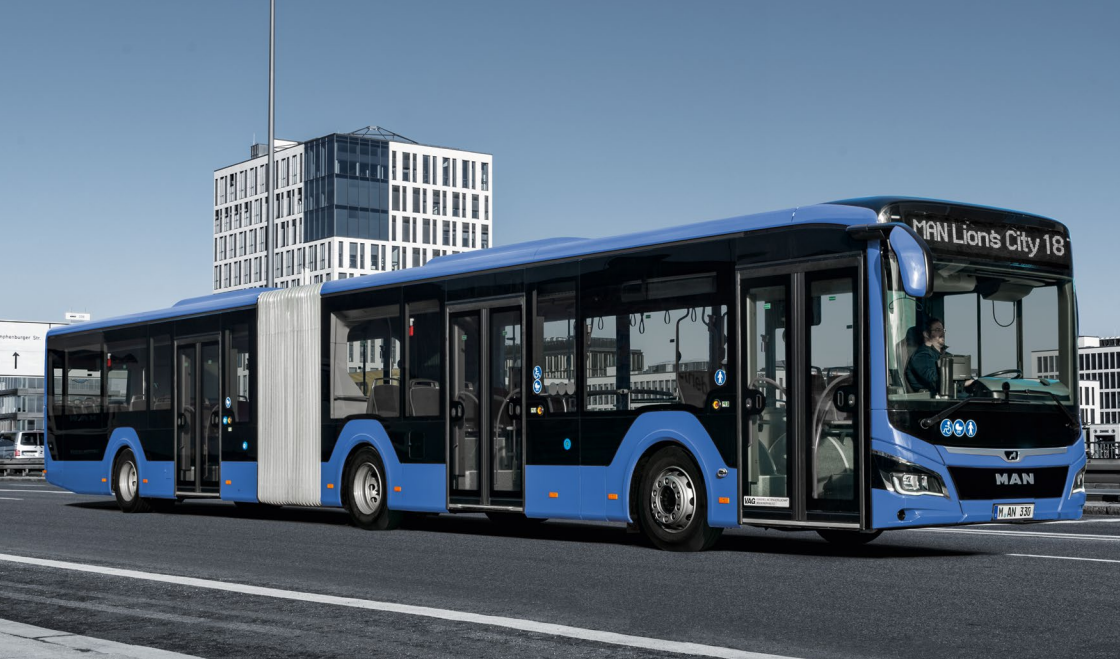
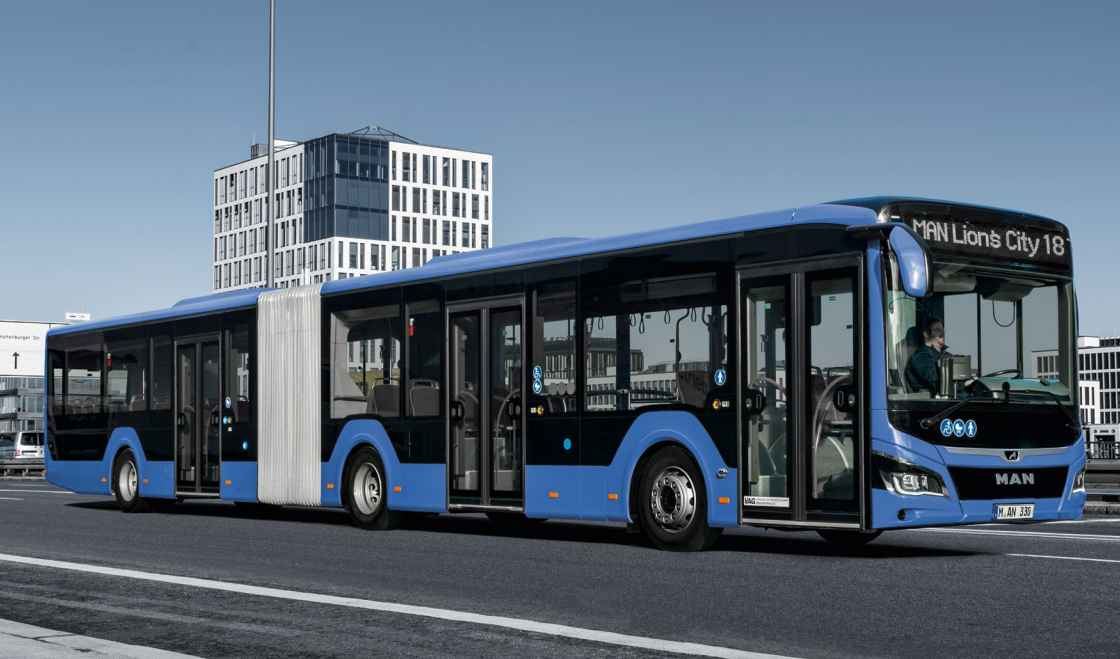
compressed images, improved lighthouse score and added animations

diff --git a/index.html b/index.html
@@ -31,17 +31,17 @@
                     <article>
                         <h2 id="categ">ELECTRIC</h2>
                         <div>
-                        <img id="abc" src="10E.webp" alt="zdjecie modelu 10E">
+                        <img id="zdjmod" src="10E.webp" alt="zdjecie modelu 10E">
                         <img src="10E.webp" class="shadow" aria-hidden="true">
                         <p>Lion's City 10E</p>
                         </div>
                         <div>
-                        <img src="12E.webp" id="abc" alt="zdjecie modelu 12E">
+                        <img src="12E.webp" id="zdjmod" alt="zdjecie modelu 12E">
                         <img src="12E.webp" class="shadow" aria-hidden="true">
                         <p>Lion's City 12E</p>
                         </div>
                         <div>
-                        <img src="18E.webp" id="abc" alt="zdjecie modelu 18E">
+                        <img src="18E.webp" id="zdjmod" alt="zdjecie modelu 18E">
                         <img src="18E.webp" class="shadow" aria-hidden="true">
                         <p>Lion's City 18E</p>
                         </div>
@@ -49,17 +49,17 @@
                     <article>
                         <h2 id="categ">EFFICIENT HYBRID</h2>
                         <div>
-                        <img src="12.webp" id="abc" alt="zdjecie modelu 12">
+                        <img src="12.webp" id="zdjmod" alt="zdjecie modelu 12">
                         <img src="12.webp" class="shadow" aria-hidden="true">
                         <p>Lion's City 12</p>
                         </div>
                         <div>
-                        <img src="18.webp" id="abc" alt="zdjecie modelu 18">
+                        <img src="18.webp" id="zdjmod" alt="zdjecie modelu 18">
                         <img src="18.webp" class="shadow" aria-hidden="true">
                         <p>Lion's City 18</p>
                         </div>
                         <div>
-                        <img src="19.webp" id="abc" alt="zdjecie modelu 19">
+                        <img src="19.webp" id="zdjmod" alt="zdjecie modelu 19">
                         <img src="19.webp" class="shadow" aria-hidden="true">
                         <p>Lion's City 19</p>
                         </div>
@@ -145,8 +145,10 @@
                 <h1>KONTAKT</h1>
                 <article>
                     <form>
+                        <div>
                         <input type="text" id="imie" name="nazwisko" placeholder="imię">
                         <input type="text" id="nazwisko" name="nazwisko" placeholder="nazwisko">
+                    </div>
                         <input type="text" id="email" name="email" placeholder="e-mail">
                         <input type="text" id="tytul" name="tytul" placeholder="tytuł wiadomości">
                         <textarea id="tresc" name="tresc" placeholder="treść"></textarea>
@@ -155,7 +157,7 @@
                 </article>
             </section>
             <footer>
-                <p>DAWID LESZ 2023 &copy</p>
+                <p>DESPISE 2023 &copy</p>
             </footer>
         </main>
         

diff --git a/style.css b/style.css
@@ -28,6 +28,7 @@ nav{
 
 #logo img{
     width: 100px;
+    height: 60px;
 }
 
 #logo{
@@ -80,11 +81,17 @@ section{
     min-height: 100vh;
 }
 
+hr{
+    flex-basis: 100%;
+    height: 2px;
+    background-color: #EEEEEE;
+}
+
 section h1{
     flex-basis: 100%;
     width: fit-content;
     text-align: center;
-    font-size: 50px;
+    font-size: 70px;
 }
 
 article *{
@@ -102,17 +109,26 @@ article{
     height: fit-content;
 }
 
-#abc{
+#zdjmod{
     width: 700px;
     height: 400px;
     border-radius: 20px;
     position: relative;
     z-index: 2;
+    transition: all 1s;
 }
 
+#zdjmod:hover{
+    transform: scale(1.1);
+    transition: all 1s;
+}
+
+
+
 #modele article div{
-    flex-basis: 50%;
+    flex-basis: 30%;
     gap: 10px;
+    padding: 3%;
 }
 
 #categ{
@@ -141,6 +157,7 @@ table td,th{
     padding: 10px;
 }
 
+
 table tr{
     height: 100px;
 }
@@ -155,6 +172,7 @@ table{
     border-radius: 10px;
     border: 5px solid white;
     width: 60vw;
+    height: 35vw;
 }
 
 #gallery article{
@@ -163,6 +181,10 @@ table{
 
 #specs article{
     align-self: center;
+}
+
+table tr{
+    font-size: 2.5vw;
 }
 
 #aboutme img{
@@ -183,10 +205,16 @@ table{
     flex-wrap: nowrap;
     color: #2F343F;
     box-shadow: 0px 0px 40px 8px #DEE8F4;
+    transition: all 1s;
+}
+
+#aboutme div:hover{
+    transform: scale(1.05);
+    transition: all 1s;
 }
 
 #aboutme p{
-    flex-basis: 70%;
+    flex-basis: 60%;
     padding: 20px;
 }
 
@@ -201,16 +229,15 @@ form{
     display: flex;
     flex-wrap: wrap;
     width: 70vw;
-    height: 70vh;
-    justify-content: center;
+    min-height: 70vh;
 }
 
 
 #imie{
-    flex-basis: 49.5%;
+    flex-basis: 50%;
 }
 #nazwisko{
-    flex-basis: 49.5%;
+    flex-basis: 50%;
 }
 #email{
     flex-basis: 100%;
@@ -240,4 +267,15 @@ form input,textarea{
     color: white;
     font-size: 2vw;
     box-shadow: 0px 0px 10px 2px #DEE8F4;
+}
+
+form input{
+    height: fit-content;
+    padding: 2vh;
+}
+
+form div{
+    display: flex;
+    flex-wrap: nowrap;
+    width: 70vw;
 }
